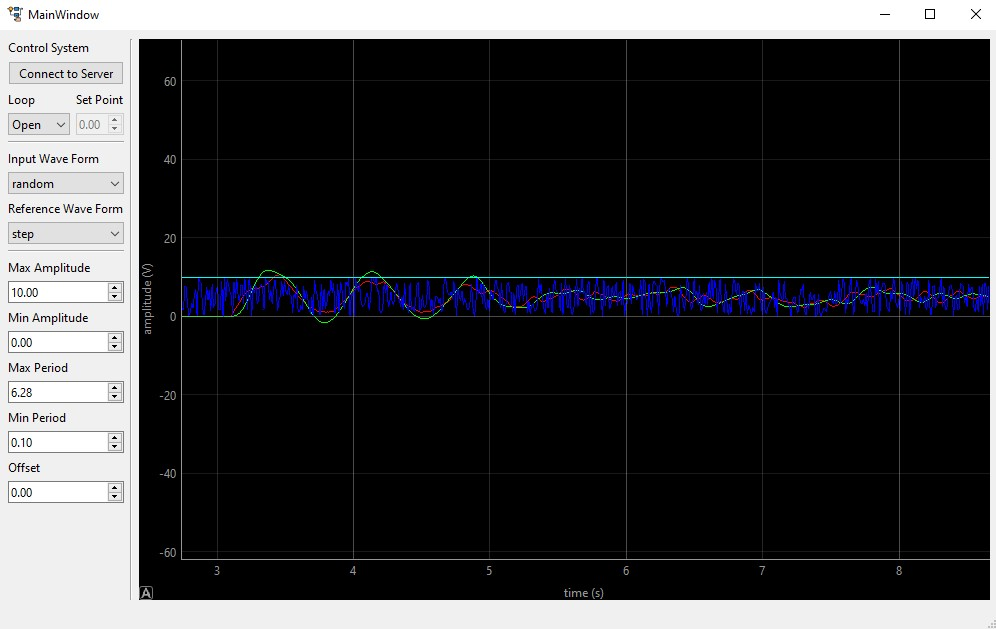
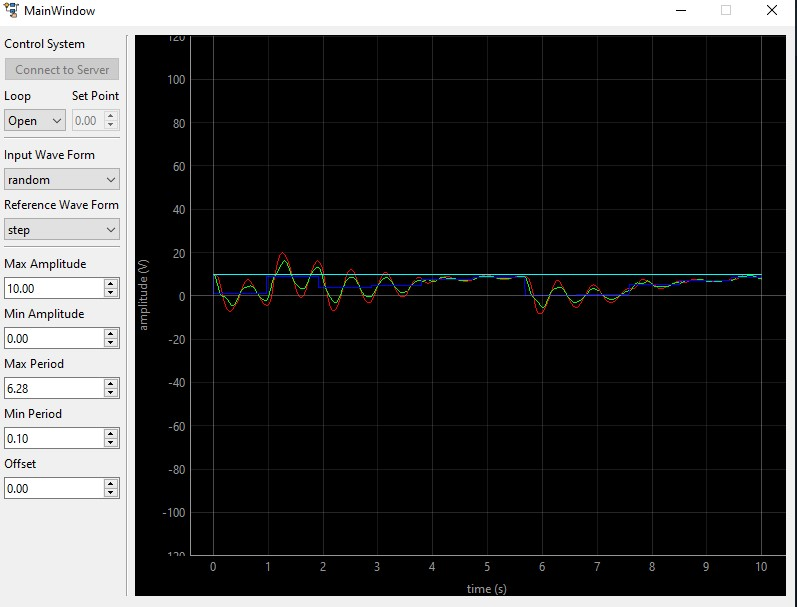
update readme, limits

diff --git a/main_window.py b/main_window.py
@@ -26,7 +26,8 @@ class Ui_MainWindow(object):
         self.verticalLayoutControl.addWidget(self.labelControlSystem)
         self.horizontalLayout = QtWidgets.QHBoxLayout()
         self.horizontalLayout.setObjectName("horizontalLayout")
-        self.pushButtonConnectServer = QtWidgets.QPushButton(self.centralWidget)
+        self.pushButtonConnectServer = QtWidgets.QPushButton(
+            self.centralWidget)
         self.pushButtonConnectServer.setObjectName("pushButtonConnectServer")
         self.horizontalLayout.addWidget(self.pushButtonConnectServer)
         self.verticalLayoutControl.addLayout(self.horizontalLayout)
@@ -79,8 +80,10 @@ class Ui_MainWindow(object):
         self.referenceWaveFormLabel = QtWidgets.QLabel(self.centralWidget)
         self.referenceWaveFormLabel.setObjectName("referenceWaveFormLabel")
         self.verticalLayout_8.addWidget(self.referenceWaveFormLabel)
-        self.comboBoxReferenceWaveForm = QtWidgets.QComboBox(self.centralWidget)
-        self.comboBoxReferenceWaveForm.setObjectName("comboBoxReferenceWaveForm")
+        self.comboBoxReferenceWaveForm = QtWidgets.QComboBox(
+            self.centralWidget)
+        self.comboBoxReferenceWaveForm.setObjectName(
+            "comboBoxReferenceWaveForm")
         self.comboBoxReferenceWaveForm.addItem("")
         self.comboBoxReferenceWaveForm.addItem("")
         self.comboBoxReferenceWaveForm.addItem("")
@@ -100,9 +103,10 @@ class Ui_MainWindow(object):
         self.labelMaxAmplitude = QtWidgets.QLabel(self.centralWidget)
         self.labelMaxAmplitude.setObjectName("labelMaxAmplitude")
         self.verticalLayout_3.addWidget(self.labelMaxAmplitude)
-        self.doubleBoxMaxAmplitude = QtWidgets.QDoubleSpinBox(self.centralWidget)
+        self.doubleBoxMaxAmplitude = QtWidgets.QDoubleSpinBox(
+            self.centralWidget)
         self.doubleBoxMaxAmplitude.setMinimum(0.0)
-        self.doubleBoxMaxAmplitude.setMaximum(50.0)
+        self.doubleBoxMaxAmplitude.setMaximum(10000000.0)
         self.doubleBoxMaxAmplitude.setSingleStep(0.1)
         self.doubleBoxMaxAmplitude.setProperty("value", 0.0)
         self.doubleBoxMaxAmplitude.setObjectName("doubleBoxMaxAmplitude")
@@ -113,9 +117,10 @@ class Ui_MainWindow(object):
         self.labelMinAmplitude = QtWidgets.QLabel(self.centralWidget)
         self.labelMinAmplitude.setObjectName("labelMinAmplitude")
         self.verticalLayout_4.addWidget(self.labelMinAmplitude)
-        self.doubleBoxMinAmplitude = QtWidgets.QDoubleSpinBox(self.centralWidget)
+        self.doubleBoxMinAmplitude = QtWidgets.QDoubleSpinBox(
+            self.centralWidget)
         self.doubleBoxMinAmplitude.setEnabled(False)
-        self.doubleBoxMinAmplitude.setMinimum(-50.0)
+        self.doubleBoxMinAmplitude.setMinimum(-10000000.0)
         self.doubleBoxMinAmplitude.setMaximum(0.0)
         self.doubleBoxMinAmplitude.setSingleStep(0.1)
         self.doubleBoxMinAmplitude.setObjectName("doubleBoxMinAmplitude")
@@ -159,7 +164,8 @@ class Ui_MainWindow(object):
         self.doubleBoxOffset.setSingleStep(0.01)
         self.doubleBoxOffset.setObjectName("doubleBoxOffset")
         self.verticalLayout_6.addWidget(self.doubleBoxOffset)
-        spacerItem = QtWidgets.QSpacerItem(20, 40, QtWidgets.QSizePolicy.Policy.Minimum, QtWidgets.QSizePolicy.Policy.Expanding)
+        spacerItem = QtWidgets.QSpacerItem(
+            20, 40, QtWidgets.QSizePolicy.Policy.Minimum, QtWidgets.QSizePolicy.Policy.Expanding)
         self.verticalLayout_6.addItem(spacerItem)
         self.verticalLayoutParameters.addLayout(self.verticalLayout_6)
         self.verticalLayout_9.addLayout(self.verticalLayoutParameters)
@@ -188,26 +194,39 @@ class Ui_MainWindow(object):
     def retranslateUi(self, MainWindow):
         _translate = QtCore.QCoreApplication.translate
         MainWindow.setWindowTitle(_translate("MainWindow", "MainWindow"))
-        self.labelControlSystem.setText(_translate("MainWindow", "Control System"))
-        self.pushButtonConnectServer.setText(_translate("MainWindow", "Connect to Server"))
+        self.labelControlSystem.setText(
+            _translate("MainWindow", "Control System"))
+        self.pushButtonConnectServer.setText(
+            _translate("MainWindow", "Connect to Server"))
         self.labelLoop.setText(_translate("MainWindow", "Loop"))
         self.comboBoxLoop.setItemText(0, _translate("MainWindow", "Open"))
         self.comboBoxLoop.setItemText(1, _translate("MainWindow", "Closed"))
         self.labelSetPoint.setText(_translate("MainWindow", "Set Point"))
-        self.inputWaveFormLabel.setText(_translate("MainWindow", "Input Wave Form"))
+        self.inputWaveFormLabel.setText(
+            _translate("MainWindow", "Input Wave Form"))
         self.comboBoxWaveForm.setItemText(0, _translate("MainWindow", "step"))
         self.comboBoxWaveForm.setItemText(1, _translate("MainWindow", "sine"))
-        self.comboBoxWaveForm.setItemText(2, _translate("MainWindow", "square"))
-        self.comboBoxWaveForm.setItemText(3, _translate("MainWindow", "sawtooth"))
-        self.comboBoxWaveForm.setItemText(4, _translate("MainWindow", "random"))
-        self.referenceWaveFormLabel.setText(_translate("MainWindow", "Reference Wave Form"))
-        self.comboBoxReferenceWaveForm.setItemText(0, _translate("MainWindow", "step"))
-        self.comboBoxReferenceWaveForm.setItemText(1, _translate("MainWindow", "sine"))
-        self.comboBoxReferenceWaveForm.setItemText(2, _translate("MainWindow", "square"))
-        self.comboBoxReferenceWaveForm.setItemText(3, _translate("MainWindow", "sawtooth"))
-        self.comboBoxReferenceWaveForm.setItemText(4, _translate("MainWindow", "random"))
+        self.comboBoxWaveForm.setItemText(
+            2, _translate("MainWindow", "square"))
+        self.comboBoxWaveForm.setItemText(
+            3, _translate("MainWindow", "sawtooth"))
+        self.comboBoxWaveForm.setItemText(
+            4, _translate("MainWindow", "random"))
+        self.referenceWaveFormLabel.setText(
+            _translate("MainWindow", "Reference Wave Form"))
+        self.comboBoxReferenceWaveForm.setItemText(
+            0, _translate("MainWindow", "step"))
+        self.comboBoxReferenceWaveForm.setItemText(
+            1, _translate("MainWindow", "sine"))
+        self.comboBoxReferenceWaveForm.setItemText(
+            2, _translate("MainWindow", "square"))
+        self.comboBoxReferenceWaveForm.setItemText(
+            3, _translate("MainWindow", "sawtooth"))
+        self.comboBoxReferenceWaveForm.setItemText(
+            4, _translate("MainWindow", "random"))
         self.labelMaxAmplitude.setText(_translate("MainWindow", "Amplitude"))
-        self.labelMinAmplitude.setText(_translate("MainWindow", "Min Amplitude"))
+        self.labelMinAmplitude.setText(
+            _translate("MainWindow", "Min Amplitude"))
         self.labelMaxPeriod.setText(_translate("MainWindow", "Period"))
         self.labelMinPeriod.setText(_translate("MainWindow", "Min Period"))
         self.labelOffset.setText(_translate("MainWindow", "Offset"))

diff --git a/README.md b/README.md
@@ -43,9 +43,9 @@ Entretanto, o iDynamic se mostrou apenas compatível com o websockets, encerrand
 qualquer comunicação via socket rapidamente. Portanto, adaptou-se um servidor 
 websockets a arquitetura do projeto.
 
-# Arquitetura
+# Arquitetura inicial
 
-O projeto é estruturado com [threading](https://docs.python.org/3/library/threading.html). Uma thread faz a comunicação com o iDynamic e outra controla
+Primeiramente, o projeto é estruturado com [threading](https://docs.python.org/3/library/threading.html). Uma thread faz a comunicação com o iDynamic e outra controla
 a interface gráfica. Essa escolha foi tomada devido ao delay que seria demasiado no caso de um processamento single thread.
 
 Como o websockets é baseado em [asyncio](https://docs.python.org/3/library/asyncio.html) que é uma biblioteca pensada em processos concorrentes em single thread, sua implementação com múltiplas threads foi um tanto custosa.
@@ -54,14 +54,24 @@ Por fim, a comunicação com o iDynamic foi feita com websockets, rodando na thr
 principal. Uma thread secundária roda a interface gráfica. A comunicação entre 
 as duas threads é feita através de [queues](https://docs.python.org/3/library/queue.html).
 
-Mais detalhes da arquitetura na imagem a seguir:
+# Arquitetura atual
 
-![architeture](./images/architeture.jpg)
+O projeto acabou tendo conflitos entre as threads, queues, servidor e interface gráfica. Além de 
+um código "macarrônico", com um fluxo de execução confuso. Sendo necessária uma reformulação.
+A arquitetura atual consiste em subthreads a partir do PyQt, uma especifica para o servidor e outra para contolar a interface gráfica, sem uso de queues. Visto que todas as variáveis são acessíveis por uma mesma classe.
 
 # Interface gráfica
 
 A interface gráfica foi desenvolvia com [PyQt6](https://wiki.python.org/moin/PyQt), utilizando-se como guia [tutorial](https://www.pythonguis.com/pyqt6-tutorial/). A IDE [QT Creator](https://www.qt.io/product/development-tools)
 foi utilizada para fácil desenvolvimento e prototipação da interface de usuário. Os gráficos foram desenvolvidos com [PyQtGraph](https://www.pyqtgraph.org/), baseando-se no exemplo encontrado em [python-live-plotting](https://github.com/ap--/python-live-plotting/blob/master/plot_pyqtgraph.py).
+
+# Malha Aberta e Fechada
+
+É possível selecionar o sistema como malha aberta ou malha fechada. Em caso de malha aberta, uma curva de entrada é aplicada diretamente ao sistema. Já no caso de malha fechada, é aplicado como entrada do sistema a curva de referência menos a saída anterior do sistema. 
+
+# Controlador PID
+
+É possível aplicar um controlador Proporcional Integrador Derivativo no sistema, regulando os ganhos para a melhor resposta, seja em tempo de convergência, overshoot, tempo de subida.
 
 # Setup inicial
 
@@ -73,11 +83,12 @@ $ pip install -r requeriments.txt
 
 # Rodar o servidor
 ```console
-$ python3 test.py
+$ python3 main.py
 ```
+Clique em *Connect to Server*
 Em seguida, abra o [simulador](https://dev-mind.blog/apps/control_systems/iDynamic/system6.html). Clique em *Control* e em *Play*.
 
-Selecione a forma de onda de entrada e altere a amplitude.
+Selecione a forma de onda de entrada e altere a amplitude, selecione se a malha é aberta ou fechada e o uso do controlador.
 
 ![print](images/graph.jpg)
 
